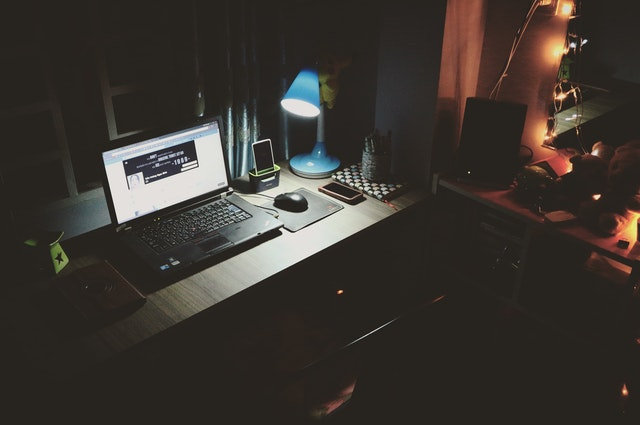
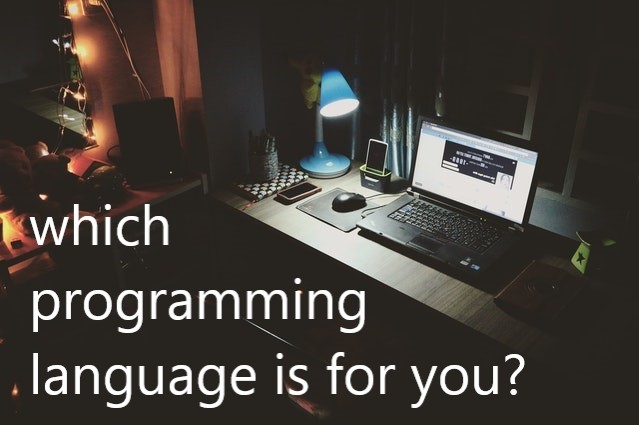
Add text to image

diff --git a/index.html b/index.html
@@ -12,9 +12,7 @@
   <body>
     <div class="container">
       <div class="jumbotron">
-        <!-- <h1>Which Programming Language is for You?</h1> -->
         <img src="img/laptop.jpg" alt="A laptop" style="width:100%;">
-        <div class="top-right">Which Programming Language is for You?</div>
       </div>
       <form id="quiz">
         <div class="row">

diff --git a/css/styles.css b/css/styles.css
@@ -5,9 +5,11 @@
 .panel {
   text-align: center;
   font-size: 20px;
+  background-color: white;
 }
-.top-right {
-  position: absolute;
-  top:50px;
-  right: 150px;
+.jumbotron {
+  background-color: white;
+}
+body {
+  background-color: lightskyblue;
 }
